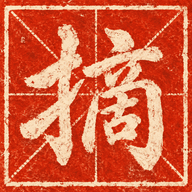
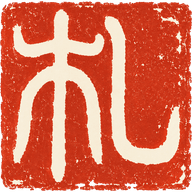
Replace seal with 札, drop it from header and footer
The seal is now a transparent 札 seal-script stamp generated from
zhang.png, so its worn edge sits on the page background in both themes.
It remains after the home heading, at the end of posts, and as the
favicon.

diff --git a/src/styles/global.css b/src/styles/global.css
@@ -118,8 +118,9 @@ blockquote {
 }
 
 /* ───────────────────────── 印章 ─────────────────────────
-   一方朱砂印拓（public/seal.webp，由 fav.png 经 scripts/make-icons.mjs 生成）。
-   用图而不用字：字形居中和印泥质感都在图里，不再依赖字体，各平台一致。 */
+   一方朱砂「札」印（public/seal.webp，由 zhang.png 经 scripts/make-icons.mjs 生成）。
+   用图而不用字：字形居中和印泥质感都在图里，不再依赖字体，各平台一致。
+   印外是透明的，毛边直接落在页面底色上，深浅色通用。 */
 
 .seal {
 	--size: 1.75rem;
@@ -127,8 +128,6 @@ blockquote {
 	flex: none;
 	width: var(--size);
 	height: var(--size);
-	border-radius: calc(var(--size) * 0.08);
-	background: var(--seal);
 	object-fit: cover;
 	-webkit-user-drag: none;
 	user-select: none;
@@ -171,10 +170,6 @@ blockquote {
 /* 拉丁字母的字面中心比行框中心高，下移约 0.11em（实测 2px），让站名与印章在同一水平中线上 */
 .brand > span:not(.seal) {
 	translate: 0 0.11em;
-}
-
-.brand:hover .seal {
-	background: var(--accent);
 }
 
 .site-nav {
@@ -271,10 +266,6 @@ blockquote {
 	display: inline-flex;
 	align-items: center;
 	gap: 0.625rem;
-}
-
-.footer-sign .seal {
-	--size: 1.125rem;
 }
 
 .footer-links {

diff --git a/src/styles/tokens.css b/src/styles/tokens.css
@@ -23,7 +23,6 @@
 	--accent-ink: #9a2f17; /* 正文里的链接，比 accent 再深一点 */
 	--accent-soft: rgb(176 58 31 / 0.28);
 	--accent-wash: rgb(176 58 31 / 0.07);
-	--seal: #bf3a22;
 
 	/* 提示块 */
 	--note: #2f5f8a;
@@ -71,7 +70,6 @@
 	--accent-ink: #ef7e63;
 	--accent-soft: rgb(232 102 74 / 0.36);
 	--accent-wash: rgb(232 102 74 / 0.09);
-	--seal: #c9432a;
 
 	--note: #7fa9d4;
 	--tip: #86b38c;
@@ -99,7 +97,6 @@
 		--accent-ink: #ef7e63;
 		--accent-soft: rgb(232 102 74 / 0.36);
 		--accent-wash: rgb(232 102 74 / 0.09);
-		--seal: #c9432a;
 		--note: #7fa9d4;
 		--tip: #86b38c;
 		--important: #b49ad8;
